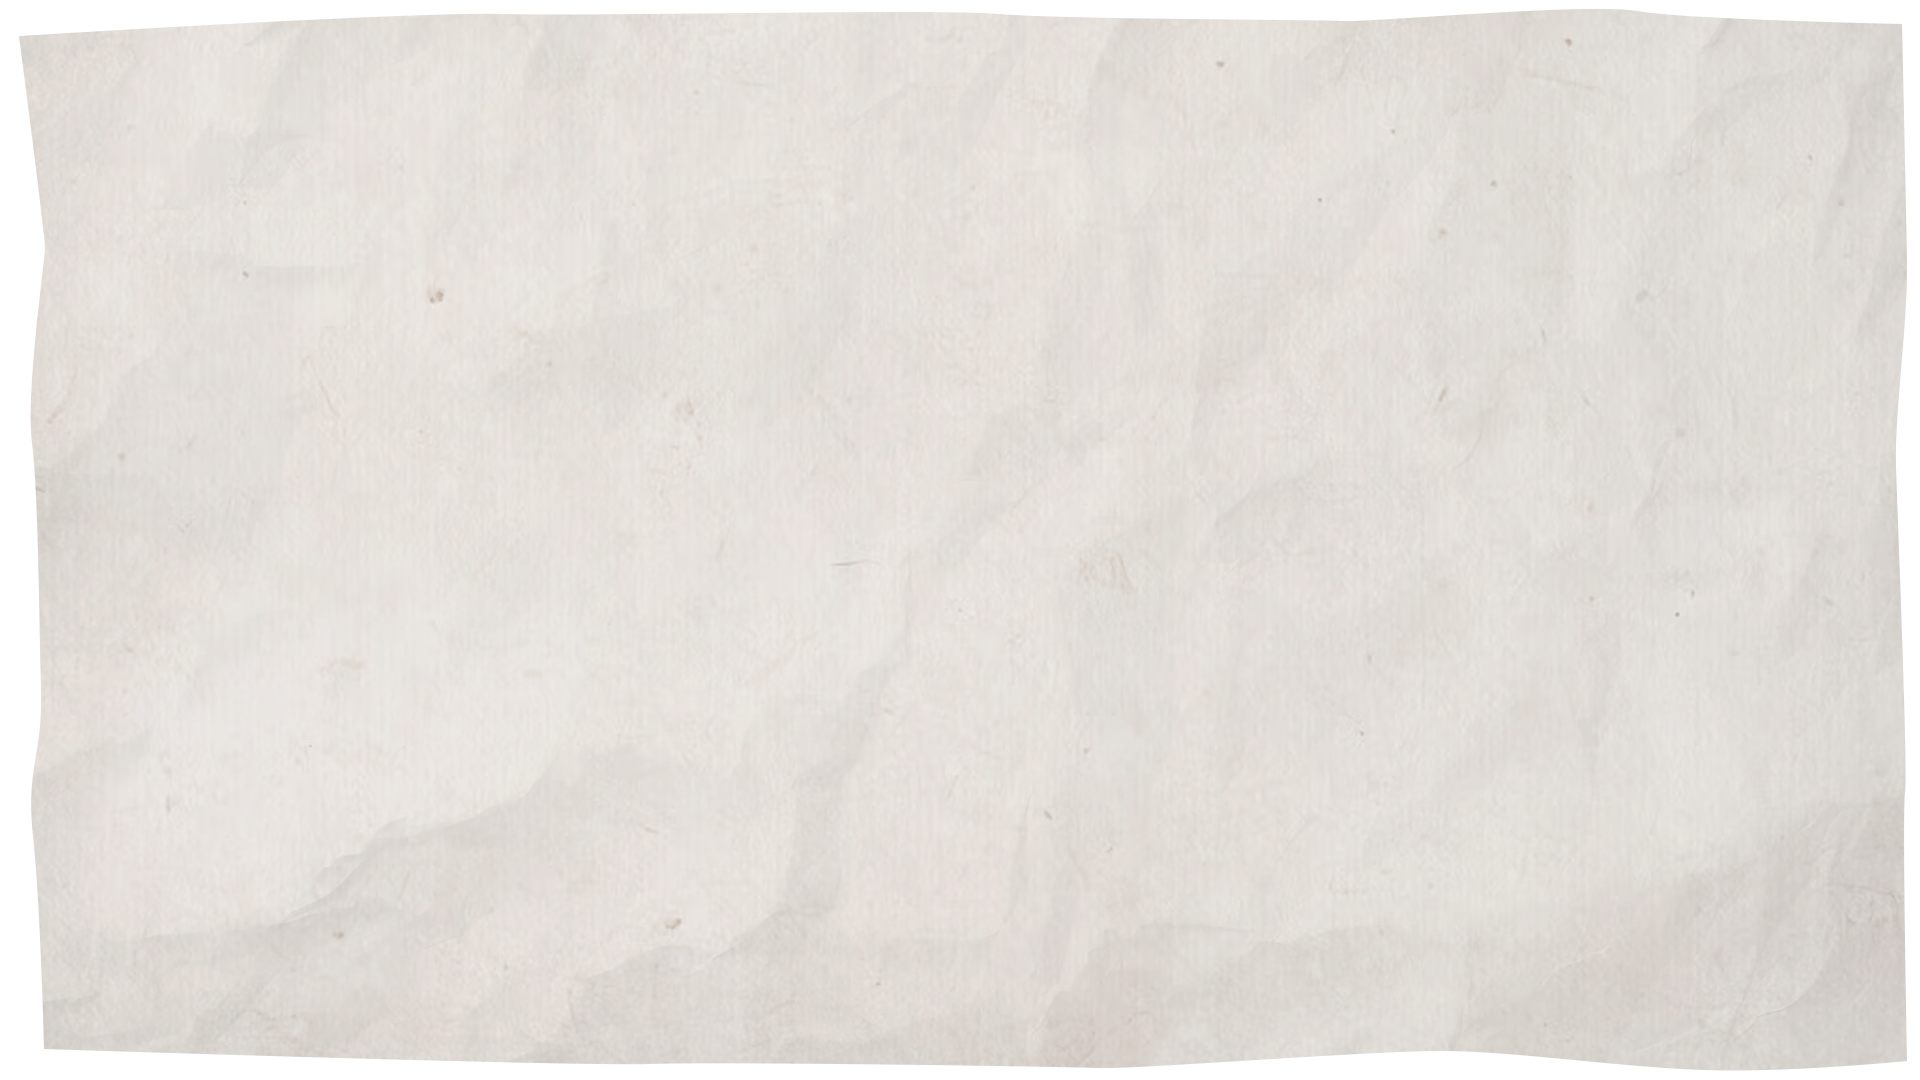
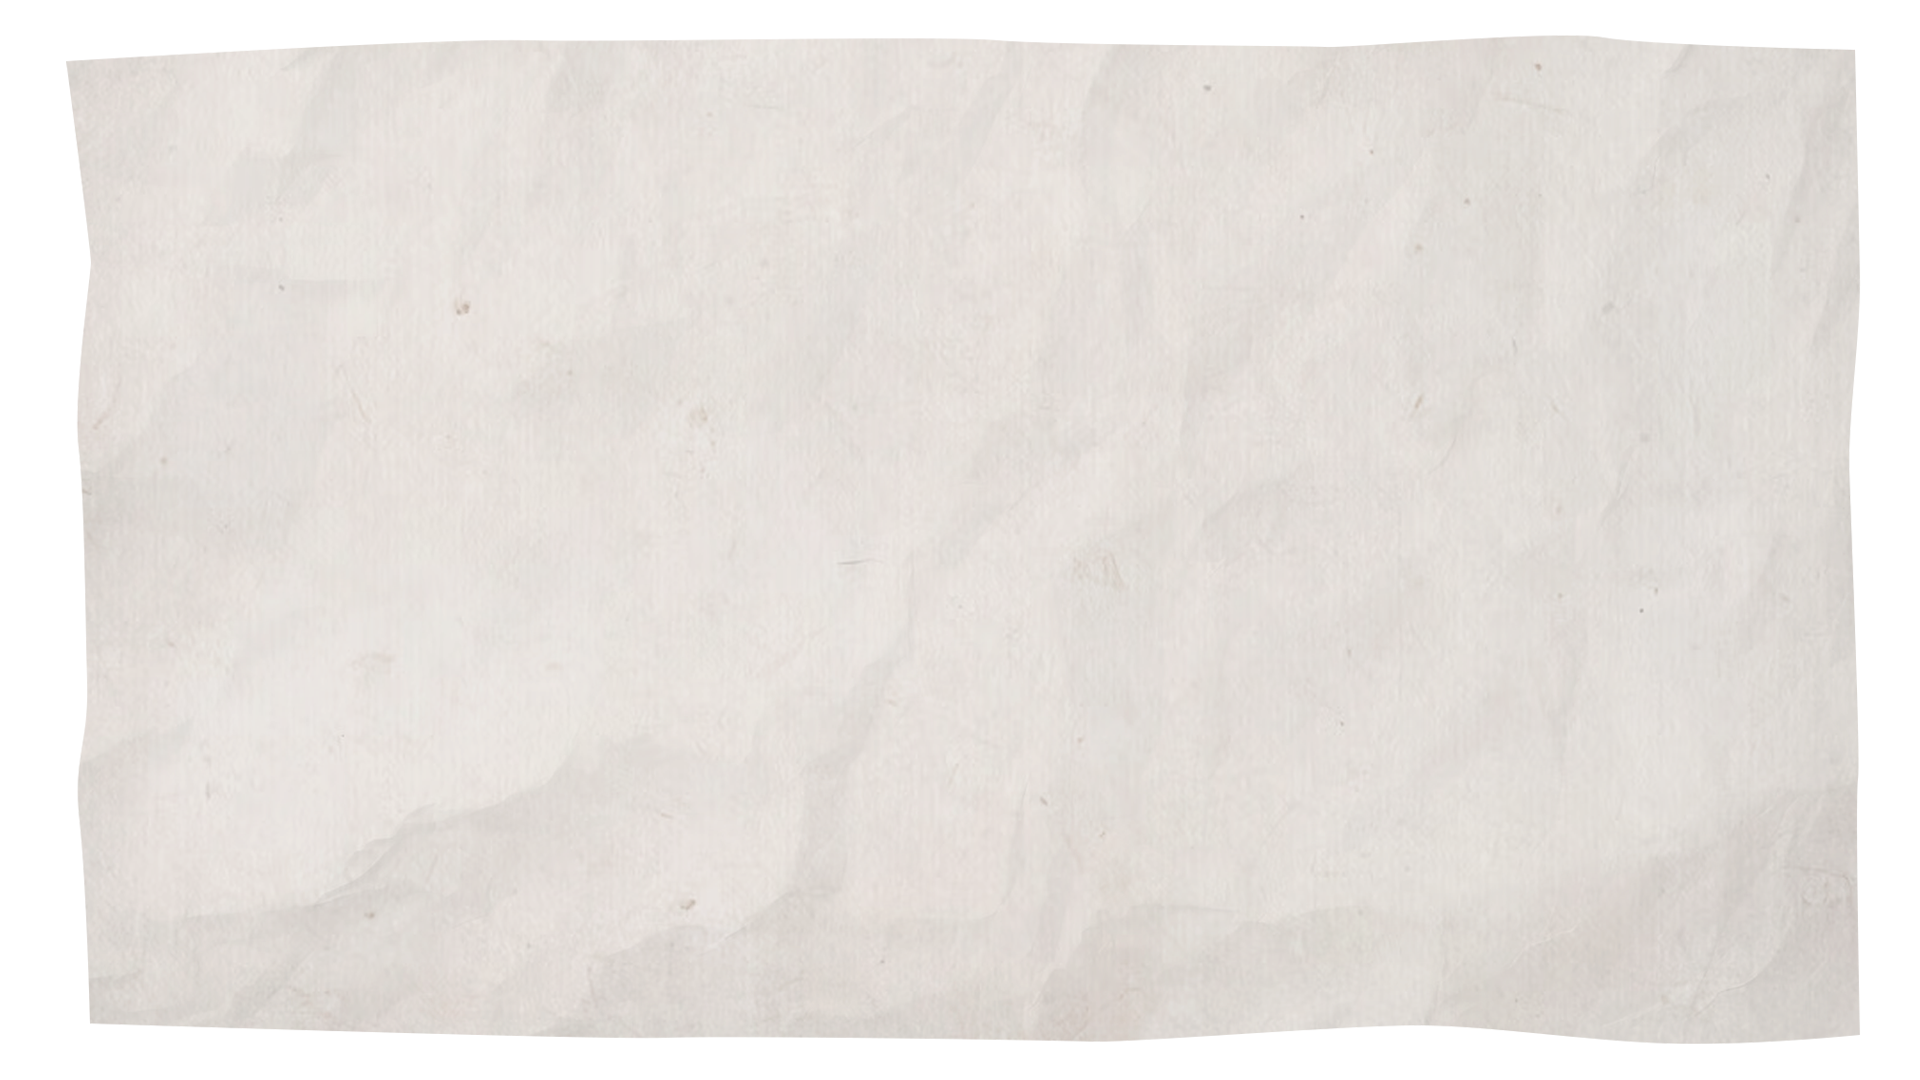
add background glow

Changed region(s): [[0.0, 0.0, 1.0, 1.0]]

diff --git a/src/lib/Paper.svelte b/src/lib/Paper.svelte
@@ -6,6 +6,7 @@
     let { title, body, image, hidePaper } = $props();
 
     let showLine = $state(false);
+    let showGlow = $state(false);
 
     onMount(() => {
         setTimeout(() => {
@@ -16,7 +17,7 @@
 
 <div
     class="paper"
-    style:background-image={`url(${import.meta.env.VITE_IMAGE_FILEPATH}paper.png)`}
+    style:background-image={`url(${import.meta.env.VITE_IMAGE_FILEPATH}paper${showGlow ? "_glow" : ""}.png)`}
     in:fly={{ x: -2000, duration: 1800, easing: quartOut }}
     out:fly={{ x: 2000, duration: 2000, easing: cubicIn }}
 >
@@ -38,7 +39,16 @@
     ></div>
     <div class="paperClose">
         <!-- svelte-ignore a11y_consider_explicit_label -->
-        <button onclick={() => hidePaper()}>
+        <button
+            onclick={() => {
+                showGlow = true;
+                console.log(showGlow);
+                setTimeout(() => {
+                    hidePaper();
+                }, 10);
+                //
+            }}
+        >
             <svg
                 xmlns="http://www.w3.org/2000/svg"
                 height="40px"
@@ -64,6 +74,7 @@
         grid-template-columns: 50% 50%;
         grid-template-rows: 20% 80%;
         background-size: 100% 100%;
+        transition: background-image 1s;
     }
 
     :global(.paperParagraph p) {
@@ -80,7 +91,7 @@
         scrollbar-color: var(--paper-scroll-color) rgba(0, 0, 0, 0);
         scrollbar-width: thin;
         grid-column-start: 1;
-        padding-right: 1em;
+        padding: 0 1em 0 1em;
         line-height: 1.8em;
     }
 
@@ -116,6 +127,10 @@
         grid-column-start: 2;
         grid-row-start: 1;
         justify-self: end;
+    }
+
+    .paperHeading {
+        margin-left: 1em;
     }
 
     h1 {

diff --git a/index.html b/index.html
@@ -13,9 +13,9 @@
         <title>Vite + Svelte + TS</title>
         <style>
             :root {
-                --paper-scroll-color: #5d5b5b;
-                --paper-title-color: #303030;
-                --paper-body-color: #303030;
+                --paper-scroll-color: rgb(115, 166, 152);
+                --paper-title-color: rgba(45, 106, 101, 0.85);
+                --paper-body-color: rgb(115, 166, 152);
                 --paper-title-font: "Crimson Text", serif;
                 --paper-body-font: "Inter", sans-serif;
                 * {

diff --git a/src/App.svelte b/src/App.svelte
@@ -4,6 +4,10 @@
     import Form from "./lib/Form.svelte";
     import Paper from "./lib/Paper.svelte";
 
+    let { test } = $props();
+
+    console.log(test);
+
     let paperVisible = $state(false);
 
     let title = $state("Title goes here");
@@ -31,5 +35,6 @@
         overflow: hidden;
         justify-content: center;
         align-items: center;
+        background-color: gray;
     }
 </style>
